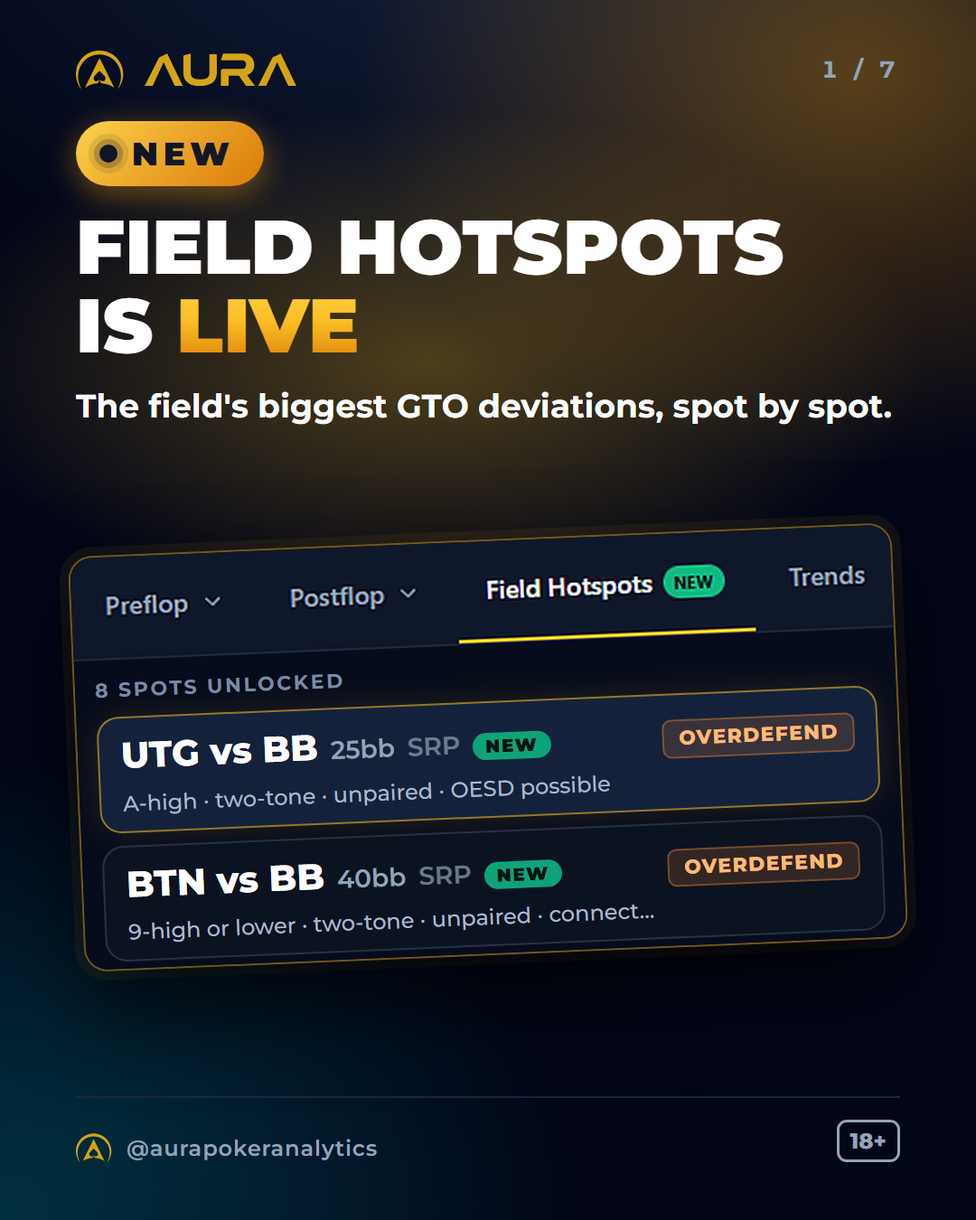
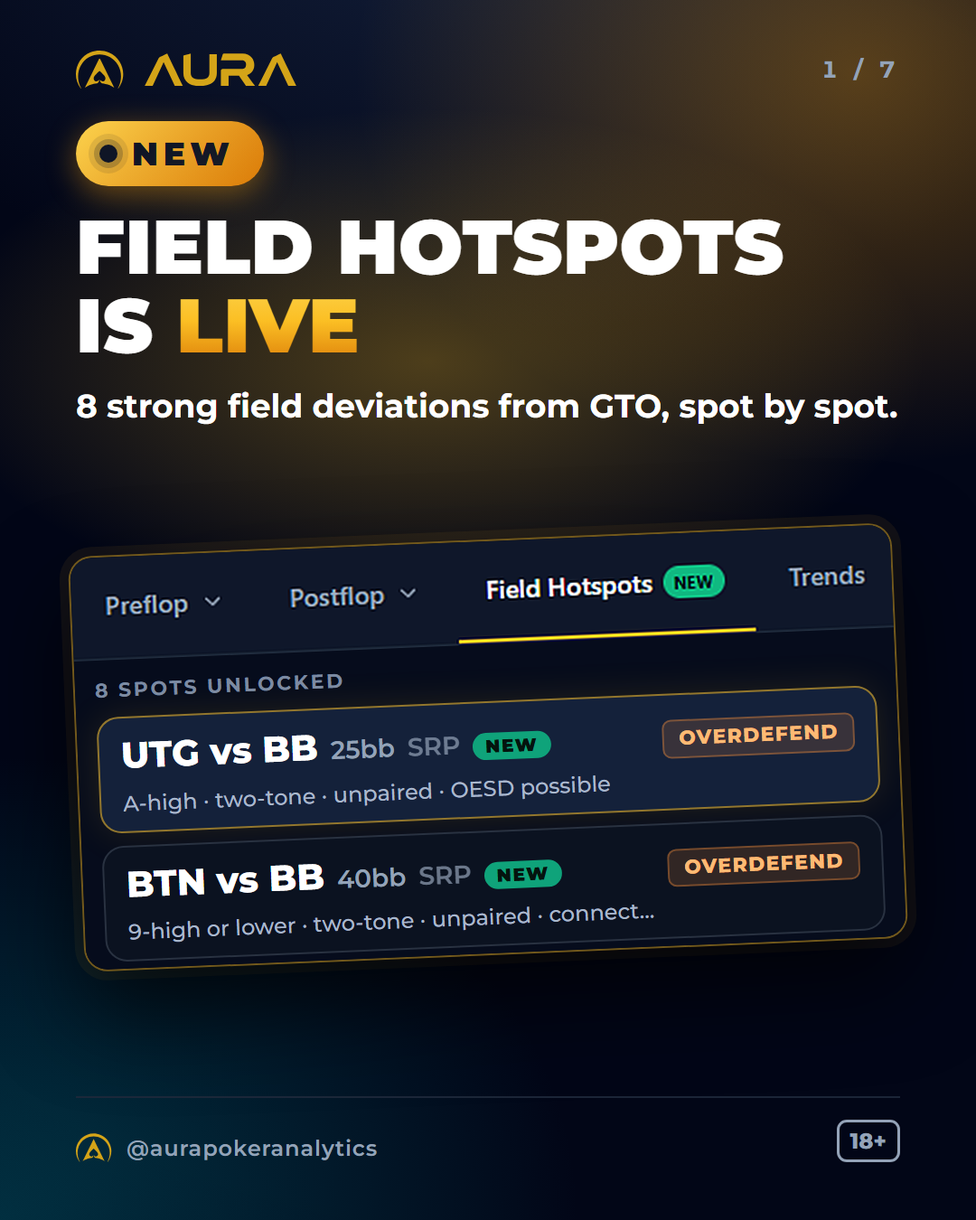
fix(field-hotspots): troca "os maiores hotspots" por "desvio forte" em todas as peças
Os 8 liberados ocupam as posições 4, 7, 9, 16, 18, 20, 24 e 49 de 1.049
(regra de liberação), não são os 8 maiores desvios. Discord, legendas,
e-mail, landing, story da capa e carrossel 1 regerados; qa OK.

Changed region(s): [[0.0611, 0.3111, 0.9167, 0.3733]]

diff --git a/content/posts/field-hotspots-launch/email-pt.html b/content/posts/field-hotspots-launch/email-pt.html
@@ -28,12 +28,12 @@
           <tr>
             <td style="padding-top:14px; padding-right:34px; padding-bottom:0; padding-left:34px; font-family:Arial,Helvetica,sans-serif;">
               <h1 style="margin:0; font-size:28px; line-height:1.25; color:#e6ebf2; font-weight:bold;">Field Hotspots no ar</h1>
-              <p style="margin:10px 0 0 0; font-size:17px; line-height:1.5; color:#D4A418; font-weight:bold;">Onde o field mais se afasta do GTO, spot a spot.</p>
+              <p style="margin:10px 0 0 0; font-size:17px; line-height:1.5; color:#D4A418; font-weight:bold;">8 spots de desvio forte do field, spot a spot.</p>
             </td>
           </tr>
           <tr>
             <td style="padding-top:16px; padding-right:34px; padding-bottom:4px; padding-left:34px; font-family:Arial,Helvetica,sans-serif; color:#c3ccd9; font-size:15px; line-height:1.65;">
-              <p style="margin:0 0 14px 0;">Os spots pós-flop de MTT em que o field mais erra, já discriminados: posições, stack, flop, size de c-bet e a ação para explorar.</p><p style="margin:0 0 14px 0;">UTG vs BB, 25bb, SRP, flop A♠ 3♠ 6♥ (A-high two-tone, OESD possível). Contra o c-bet de 50%, o field folda 53,8% e o GTO folda 73,5%: 19,7% abaixo. O BB defende demais contra c-bet. Blefe menos e aposte mais por value.</p><p style="margin:0 0 14px 0;">O Modo GTO libera 8 spots. O Grátis vê 1. Toda segunda, 2 saem e 2 entram, e o que sai não volta igual. O reg do lado pode estar vendo.</p>
+              <p style="margin:0 0 14px 0;">Os spots pós-flop de MTT em que o field tem desvio forte do GTO, já discriminados: posições, stack, flop, size de c-bet e a ação para explorar.</p><p style="margin:0 0 14px 0;">UTG vs BB, 25bb, SRP, flop A♠ 3♠ 6♥ (A-high two-tone, OESD possível). Contra o c-bet de 50%, o field folda 53,8% e o GTO folda 73,5%: 19,7% abaixo. O BB defende demais contra c-bet. Blefe menos e aposte mais por value.</p><p style="margin:0 0 14px 0;">O Modo GTO libera 8 spots. O Grátis vê 1. Toda segunda, 2 saem e 2 entram, e o que sai não volta igual. O reg do lado pode estar vendo.</p>
             </td>
           </tr>
           <tr>

diff --git a/content/posts/field-hotspots-launch/email-pt.preview.html b/content/posts/field-hotspots-launch/email-pt.preview.html
@@ -28,12 +28,12 @@
           <tr>
             <td style="padding-top:14px; padding-right:34px; padding-bottom:0; padding-left:34px; font-family:Arial,Helvetica,sans-serif;">
               <h1 style="margin:0; font-size:28px; line-height:1.25; color:#e6ebf2; font-weight:bold;">Field Hotspots no ar</h1>
-              <p style="margin:10px 0 0 0; font-size:17px; line-height:1.5; color:#D4A418; font-weight:bold;">Onde o field mais se afasta do GTO, spot a spot.</p>
+              <p style="margin:10px 0 0 0; font-size:17px; line-height:1.5; color:#D4A418; font-weight:bold;">8 spots de desvio forte do field, spot a spot.</p>
             </td>
           </tr>
           <tr>
             <td style="padding-top:16px; padding-right:34px; padding-bottom:4px; padding-left:34px; font-family:Arial,Helvetica,sans-serif; color:#c3ccd9; font-size:15px; line-height:1.65;">
-              <p style="margin:0 0 14px 0;">Os spots pós-flop de MTT em que o field mais erra, já discriminados: posições, stack, flop, size de c-bet e a ação para explorar.</p><p style="margin:0 0 14px 0;">UTG vs BB, 25bb, SRP, flop A♠ 3♠ 6♥ (A-high two-tone, OESD possível). Contra o c-bet de 50%, o field folda 53,8% e o GTO folda 73,5%: 19,7% abaixo. O BB defende demais contra c-bet. Blefe menos e aposte mais por value.</p><p style="margin:0 0 14px 0;">O Modo GTO libera 8 spots. O Grátis vê 1. Toda segunda, 2 saem e 2 entram, e o que sai não volta igual. O reg do lado pode estar vendo.</p>
+              <p style="margin:0 0 14px 0;">Os spots pós-flop de MTT em que o field tem desvio forte do GTO, já discriminados: posições, stack, flop, size de c-bet e a ação para explorar.</p><p style="margin:0 0 14px 0;">UTG vs BB, 25bb, SRP, flop A♠ 3♠ 6♥ (A-high two-tone, OESD possível). Contra o c-bet de 50%, o field folda 53,8% e o GTO folda 73,5%: 19,7% abaixo. O BB defende demais contra c-bet. Blefe menos e aposte mais por value.</p><p style="margin:0 0 14px 0;">O Modo GTO libera 8 spots. O Grátis vê 1. Toda segunda, 2 saem e 2 entram, e o que sai não volta igual. O reg do lado pode estar vendo.</p>
             </td>
           </tr>
           <tr>

diff --git a/content/posts/field-hotspots-launch/instagram/src/carrossel-en-01.html b/content/posts/field-hotspots-launch/instagram/src/carrossel-en-01.html
@@ -20,7 +20,7 @@
 <div class="vignette"></div>
 <header><div class="lockup"><span class="icon" data-icon></span><span class="wm" data-wordmark></span></div><span class="indicator">1 / 7</span></header>
 <div class="pillrow z"><span class="live"><i class="dot"></i>NEW</span></div>
-<div class="z titlewrap"><h1 class="title">Field Hotspots<br>is <em>live</em></h1><p class="sub fit">The field's biggest GTO deviations, spot by spot.</p></div>
+<div class="z titlewrap"><h1 class="title">Field Hotspots<br>is <em>live</em></h1><p class="sub fit">8 strong field deviations from GTO, spot by spot.</p></div>
 <div class="fc z"><div class="win"><div class="nv"><img src="assets/mk-nav-neutro-idioma-910.png"></div><div class="body"><div class="lab">8 SPOTS UNLOCKED</div><div class="sp sel"><div class="l1"><span class="pair" style="font-size:34px">UTG vs BB</span><span class="st">25bb</span><span class="st" style="opacity:.7">SRP</span><span class="new">NEW</span><span style="margin-left:auto"><span class="od">OVERDEFEND</span></span></div><div class="tx">A-high · two-tone · unpaired · OESD possible</div></div><div class="sp"><div class="l1"><span class="pair" style="font-size:34px">BTN vs BB</span><span class="st">40bb</span><span class="st" style="opacity:.7">SRP</span><span class="new">NEW</span><span style="margin-left:auto"><span class="od">OVERDEFEND</span></span></div><div class="tx">9-high or lower · two-tone · unpaired · connect…</div></div></div></div></div>
 <footer><div class="handle"><span class="icon" data-icon></span><span>@aurapokeranalytics</span></div><span class="age">18+</span></footer>
 </div><script src="common.js"></script></body></html>

diff --git a/content/posts/field-hotspots-launch/instagram/src/story-capa-pt.html b/content/posts/field-hotspots-launch/instagram/src/story-capa-pt.html
@@ -19,7 +19,7 @@
 <div class="vignette"></div>
 <div class="z"><header><div class="lockup"><span class="icon" data-icon></span><span class="wm" data-wordmark></span></div></header></div>
 <div class="pillrow z"><span class="live"><i class="dot"></i>NOVO</span></div>
-<div class="z titlewrap"><h1 class="title">Field Hotspots<br><em>no ar</em></h1><p class="sub ">Onde o field mais se afasta do GTO, spot a spot.</p></div>
+<div class="z titlewrap"><h1 class="title">Field Hotspots<br><em>no ar</em></h1><p class="sub ">8 spots de desvio forte do field.</p></div>
 <div class="stage z"><div class="nvglow"></div><div class="nvbar"><img src="assets/mk-nav-completo-914.png"></div><div class="lst"><img src="assets/mk-lista-paga-sem-numeros-917.png"></div></div>
 <div class="sticker z"></div>
 <footer><div class="handle"><span class="icon" data-icon></span><span>@aurapokeranalytics</span></div><span class="age">18+</span></footer>

diff --git a/content/posts/field-hotspots-launch/email-en.html b/content/posts/field-hotspots-launch/email-en.html
@@ -28,7 +28,7 @@
           <tr>
             <td style="padding-top:14px; padding-right:34px; padding-bottom:0; padding-left:34px; font-family:Arial,Helvetica,sans-serif;">
               <h1 style="margin:0; font-size:28px; line-height:1.25; color:#e6ebf2; font-weight:bold;">Field Hotspots is live</h1>
-              <p style="margin:10px 0 0 0; font-size:17px; line-height:1.5; color:#D4A418; font-weight:bold;">Where the field strays most from GTO, spot by spot.</p>
+              <p style="margin:10px 0 0 0; font-size:17px; line-height:1.5; color:#D4A418; font-weight:bold;">8 strong field deviations from GTO, spot by spot.</p>
             </td>
           </tr>
           <tr>

diff --git a/content/posts/field-hotspots-launch/email-en.preview.html b/content/posts/field-hotspots-launch/email-en.preview.html
@@ -28,7 +28,7 @@
           <tr>
             <td style="padding-top:14px; padding-right:34px; padding-bottom:0; padding-left:34px; font-family:Arial,Helvetica,sans-serif;">
               <h1 style="margin:0; font-size:28px; line-height:1.25; color:#e6ebf2; font-weight:bold;">Field Hotspots is live</h1>
-              <p style="margin:10px 0 0 0; font-size:17px; line-height:1.5; color:#D4A418; font-weight:bold;">Where the field strays most from GTO, spot by spot.</p>
+              <p style="margin:10px 0 0 0; font-size:17px; line-height:1.5; color:#D4A418; font-weight:bold;">8 strong field deviations from GTO, spot by spot.</p>
             </td>
           </tr>
           <tr>

diff --git a/content/posts/field-hotspots-launch/instagram/src/build_email.py b/content/posts/field-hotspots-launch/instagram/src/build_email.py
@@ -17,7 +17,7 @@ from lib import ASSETS, EMAIL, EMAIL_IMG_BASE, POST, SRC, is_num, pct, ph_email,
 CP = {
     "pt": dict(
         lang_attr="pt-BR", subject="UTG vs BB, 25bb: o field defende demais", h1="Field Hotspots no ar",
-        tagline="Onde o field mais se afasta do GTO, spot a spot.",
+        tagline="8 spots de desvio forte do field, spot a spot.",
         pre="Field Hotspots no ar. Dois spots novos toda segunda.", btn="Abrir o Field Hotspots",
         under="Primeira troca de spots: segunda, 02/11. Poker é jogo de habilidade e estudo. 18+.",
         f1="Você recebe este e-mail porque tem uma conta ou lista de espera da Aura.",
@@ -27,7 +27,7 @@ CP = {
     ),
     "en": dict(
         lang_attr="en", subject="UTG vs BB, 25bb: the field overdefends", h1="Field Hotspots is live",
-        tagline="Where the field strays most from GTO, spot by spot.",
+        tagline="8 strong field deviations from GTO, spot by spot.",
         pre="Field Hotspots is live. Two new spots every Monday.", btn="Open Field Hotspots",
         under="First spot swap: Monday, Nov 2. Poker is a game of skill and study. 18+.",
         f1="You are receiving this email because you have an Aura account or waitlist spot.",
@@ -43,7 +43,7 @@ def body_paras(lang, n):
     word = "abaixo" if lang == "pt" else "below"
     if lang == "pt":
         return [
-            "Os spots pós-flop de MTT em que o field mais erra, já discriminados: posições, stack, flop, size de c-bet e a ação para explorar.",
+            "Os spots pós-flop de MTT em que o field tem desvio forte do GTO, já discriminados: posições, stack, flop, size de c-bet e a ação para explorar.",
             f"UTG vs BB, 25bb, SRP, flop A♠ 3♠ 6♥ (A-high two-tone, OESD possível). Contra o c-bet de 50%, o field folda {f} e o GTO folda {g}: {d} {word}. O BB defende demais contra c-bet. Blefe menos e aposte mais por value.",
             "O Modo GTO libera 8 spots. O Grátis vê 1. Toda segunda, 2 saem e 2 entram, e o que sai não volta igual. O reg do lado pode estar vendo.",
         ]

diff --git a/content/posts/field-hotspots-launch/instagram/src/build.py b/content/posts/field-hotspots-launch/instagram/src/build.py
@@ -32,8 +32,8 @@ ART = {
     "feed-en": dict(lang="en", size=(1080, 1350), kind="feed", t="Know where<br>the field <em>leaks?</em>", s="Field Hotspots: new spots every Monday.", ts=80, num=("N1", "N2", "N3")),
     "story-pt": dict(lang="pt", size=(1080, 1920), kind="story", t="O BB defende<br><em>demais aqui</em>", s="Field Hotspots: o que sai na segunda não volta igual.", ts=104, num=("N1", "N2", "N3")),
     "story-en": dict(lang="en", size=(1080, 1920), kind="story", t="The BB<br><em>overdefends</em><br>here", s="Field Hotspots: what leaves on Monday doesn't come back the same.", ts=104, num=("N1", "N2", "N3")),
-    "story-capa-pt": dict(lang="pt", size=(1080, 1920), kind="storycapa", t="Field Hotspots<br><em>no ar</em>", s="Onde o field mais se afasta do GTO, spot a spot.", ts=84, num=()),
-    "carrossel-en-01": dict(lang="en", size=(1080, 1350), kind="c1", idx=1, t="Field Hotspots<br>is <em>live</em>", s="The field's biggest GTO deviations, spot by spot.", ts=84, num=()),
+    "story-capa-pt": dict(lang="pt", size=(1080, 1920), kind="storycapa", t="Field Hotspots<br><em>no ar</em>", s="8 spots de desvio forte do field.", ts=84, num=()),
+    "carrossel-en-01": dict(lang="en", size=(1080, 1350), kind="c1", idx=1, t="Field Hotspots<br>is <em>live</em>", s="8 strong field deviations from GTO, spot by spot.", ts=84, num=()),
     "carrossel-en-02": dict(lang="en", size=(1080, 1350), kind="c2", idx=2, t="Postflop spots.<br><em>Field vs GTO.</em>", s="Position pair, stack, pot type, flop texture.", ts=80, num=()),
     "carrossel-en-03": dict(lang="en", size=(1080, 1350), kind="c3", idx=3, t="One spot,<br><em>fully broken down</em>", s="UTG vs BB · 25bb · SRP · A-high two-tone flop", ts=70, num=("N1", "N2", "N3", "N4", "N5")),
     "carrossel-en-04": dict(lang="en", size=(1080, 1350), kind="c4", idx=4, t="How to<br><em>exploit it</em>", s=None, ts=104, num=()),

diff --git a/content/posts/field-hotspots-launch/copy.md b/content/posts/field-hotspots-launch/copy.md
@@ -8,8 +8,8 @@ Telas de referência: `aura-novofront/_ops/validacao-prints/169/paid-1280-3-fiel
 **Números:** todos vêm de `content/posts/field-hotspots-launch/numeros-verificados.md` (22/10/2026). Nenhum marcador `[NUM]` resta no pacote; cada número está mapeado à linha da fonte em "Números usados", no fim. PT com vírgula, EN com ponto; desvio em %, nunca "pp".
 
 ## Mensagem central
-- PT: Os maiores hotspots do field, discriminados e a um clique: onde ele mais se afasta do GTO, em qual size de c-bet, e o que fazer com isso.
-- EN: The field's biggest hotspots, itemized and one click away: where it strays most from GTO, at which c-bet size, and what to do about it.
+- PT: Os hotspots de desvio forte do field, discriminados e a um clique: onde ele se afasta do GTO, em qual size de c-bet, e o que fazer com isso.
+- EN: The field's strong-deviation hotspots, itemized and one click away: where it strays from GTO, at which c-bet size, and what to do about it.
 
 Estrutura de toda peça: **um spot concreto** (UTG vs BB, 25bb, SRP, flop A-high two-tone com OESD possível, Overdefend), **a ação** ("O BB defende demais contra c-bet. Blefe menos e aposte mais por value.", texto da própria caixa "Como explorar") e **um CTA**.
 
@@ -31,7 +31,7 @@ Direção dele: "Tem que ter um apelo que damos os maiores hotspots do field dis
 8. **Capturas de tela nas artes:** as telas de 22/10 mostram números (fold, GTO, diferença, mil mãos, faixa). Só entram na arte se o `numeros-verificados.md` os cobrir; senão usar o mockup renderizado com os valores confirmados, ou borrar.
 9. **Preço e plano:** nenhuma peça cita preço. O trancado da tela diz "+7 spots liberados no Modo GTO", e as peças usam "Modo GTO" assim. Conferir se há texto do plano a acrescentar ("incluso no Individual") ou se isso fica fora.
 10. **"Deixando fichas na mesa": decisão do Rafael.** A frase "Quem não sabe onde o field erra pode estar deixando fichas na mesa" (legendas do feed, PT e EN) é a direção de fearmongering que ele pediu. O brand-kit veta promessa de lucro; a frase não promete ganho (diz "pode estar deixando"), mas o revisor de marca deve saber que ela fica por decisão dele.
-11. **Confirmar que os 8 do lançamento são os de maior desvio.** A ordem de liberação põe os fortes primeiro (regra `pvg-release-v1`: "Desvio forte" = 5% ou mais fora da faixa do GTO, depois "Desvio claro" = 2% a 5%). As peças dizem "os maiores hotspots do field" e "onde o field mais se afasta do GTO"; antes de publicar, a sessão dona do módulo confirma que os 8 spots da janela de lançamento são, de fato, os de maior desvio do catálogo.
+11. **Fechada (22/10, HUB): os 8 liberados não são os 8 maiores desvios** (posições 4, 7, 9, 16, 18, 20, 24 e 49 de 1.049, pela regra de liberação). Todas as peças trocaram "os maiores" / "mais se afasta" por "desvio forte" (5% ou mais fora da faixa do GTO).
 
 ## Regras de texto das artes (padrão Rafael, 08/10)
 Cada arte tem **um título curto (até ~6 palavras) e no máximo uma linha de apoio (até ~10 palavras)**. A imagem fala. Em toda arte, só ficam o logo, `@aurapokeranalytics · 18+` pequeno e, nos slides, o indicador "n / 7". Título em caixa alta bold, apoio em sentence case. O link é o sticker ou o link na bio, não texto de arte. Cores semânticas: fold `#015A6B`, call `#348A5D`, raise `#AD2C34`; a diferença field × GTO em âmbar. Nenhuma arte mostra contagem de mãos nem preço.
@@ -68,12 +68,12 @@ Observação: feed e story têm uma URL por idioma (no Modo GTO era uma só), pa
 - EN: New · Field Hotspots
 
 ## Título
-- PT: Os maiores hotspots do field, spot a spot.
-- EN: The field's biggest hotspots, spot by spot.
+- PT: 8 spots de desvio forte do field, spot a spot.
+- EN: 8 strong field deviations from GTO, spot by spot.
 
 ## Subtítulo
-- PT: O Field Hotspots lista os spots pós-flop em que o field real de MTT mais se afasta do GTO, já discriminados: posições, stack, flop, size de c-bet e a ação para explorar. Item próprio no menu do topo.
-- EN: Field Hotspots lists the postflop spots where the real MTT field strays most from GTO, already itemized: positions, stack, flop, c-bet size and the action to exploit it. Its own item in the top menu.
+- PT: O Field Hotspots lista os spots pós-flop em que o field real de MTT tem desvio forte do GTO, já discriminados: posições, stack, flop, size de c-bet e a ação para explorar. Item próprio no menu do topo.
+- EN: Field Hotspots lists the postflop spots where the real MTT field deviates strongly from GTO, already itemized: positions, stack, flop, c-bet size and the action to exploit it. Its own item in the top menu.
 
 ## 3 bullets
 PT:
@@ -115,8 +115,8 @@ Cada arte: **um título (até ~6 palavras) e uma linha de apoio (até ~10 palavr
 | Feed | 1080x1350 | EN | Know where the field leaks? | Field Hotspots: new spots every Monday. | Mesmas barras (Field 53.8%, GTO 73.5%, 50% c-bet), gap em âmbar, rótulo OVERDEFEND; rótulo "UTG vs BB · 25bb · A-high two-tone" |
 | Story | 1080x1920 | PT | O BB defende demais aqui | Field Hotspots: o que sai na segunda não volta igual. | As mesmas barras com a diferença 19,7% abaixo em âmbar (EN 19.7% below); o flop A♠ 3♠ 6♥; sticker de link "Abrir o Field Hotspots" |
 | Story | 1080x1920 | EN | The BB overdefends here | Field Hotspots: what leaves on Monday doesn't come back the same. | Mesma imagem do story PT; sticker de link "Open Field Hotspots" |
-| Story da capa | 1080x1920 | PT | Field Hotspots no ar | Onde o field mais se afasta do GTO, spot a spot. | Pílula NOVO; a barra do menu do topo com o item Field Hotspots e o selo NEW em destaque, e a lista de spots com os rótulos Overfold e Overdefend (sem números, ou só os confirmados); sticker de link "Abrir o Field Hotspots" |
-| Carrossel 1 (capa) | 1080x1350 | EN | Field Hotspots is live | The field's biggest GTO deviations, spot by spot. | Pílula NEW; janela do produto com a lista de spots e o item Field Hotspots NEW no menu do topo |
+| Story da capa | 1080x1920 | PT | Field Hotspots no ar | 8 spots de desvio forte do field. | Pílula NOVO; a barra do menu do topo com o item Field Hotspots e o selo NEW em destaque, e a lista de spots com os rótulos Overfold e Overdefend (sem números, ou só os confirmados); sticker de link "Abrir o Field Hotspots" |
+| Carrossel 1 (capa) | 1080x1350 | EN | Field Hotspots is live | 8 strong field deviations from GTO, spot by spot. | Pílula NEW; janela do produto com a lista de spots e o item Field Hotspots NEW no menu do topo |
 | Carrossel 2 (o que é) | 1080x1350 | EN | Postflop spots. Field vs GTO. | Position pair, stack, pot type, flop texture. | Lista de 3 a 4 cards de spot (par de posições, stack, SRP, textura, rótulo Overfold/Overdefend), sem números |
 | Carrossel 3 (um spot) | 1080x1350 | EN | One spot, fully broken down | UTG vs BB · 25bb · SRP · A-high two-tone flop | O spot da semana: os 3 boards de exemplo (A♠ 3♠ 6♥, 6♠ A♣ 7♣, 7♣ A♥ 5♥), o rótulo OVERDEFEND, no c-bet de 50%, field 53,8% contra GTO 73,5%, a diferença 19,7% abaixo, e as abas Fold, Call, Raise com os 3 sizes (barras de fold, field × GTO: 33% 45,1% × 52,5%; 50% 53,8% × 73,5%; 65% 59,4% × 76,3%; EN com ponto) |
 | Carrossel 4 (como explorar) | 1080x1350 | EN | How to exploit it | BB overdefends. Bluff less, bet more for value. | A caixa "Como explorar" em âmbar, com o texto da tela (EN exato: "The BB defends too much against the c-bet. Bluff less and bet more for value."; PT: "O BB defende demais contra c-bet. Blefe menos e aposte mais por value."), sobre o flop A♠ 3♠ 6♥ e o rótulo OVERDEFEND. Sem mãos exemplificadas |
@@ -173,5 +173,5 @@ Não usados de propósito: faixas do GTO (50,9–54,2; 67,5–79,5; 70,3–82,3)
 
 ## Condições do revisor de marca (parecer final OK COM RESSALVAS, 22/10)
 - **D: outros spots nas artes.** O carrossel 1 e 2 e o story da capa mostram, sem números, os rótulos de outros spots da janela de 22/10 (BTN vs BB 40bb, BTN vs SB 40bb, UTG vs BB 40bb), lidos da tela. Eles não estão no `numeros-verificados.md` e saem a partir de 02/11 (o lote de abertura sai 2 por semana). Publicar antes de 02/11; depois disso, trocar esses cards.
-- Decisões do Rafael: "fichas na mesa" (Pendência 10), "os maiores" (Pendência 11), rodapé de amostra do brand-kit × regra sem bastidor.
+- Decisões do Rafael: "fichas na mesa" (Pendência 10), rodapé de amostra do brand-kit × regra sem bastidor.
 - Discord recontado com `len()`: PT 902, EN 897 caracteres (teto 1.200).

diff --git a/content/posts/field-hotspots-launch/instagram.md b/content/posts/field-hotspots-launch/instagram.md
@@ -15,7 +15,7 @@ Arte EN: título "Know where the field leaks?" / apoio "Field Hotspots: new spot
 ```
 Você sabe onde o field erra? O reg do lado pode saber.
 
-O Field Hotspots está no ar: os spots pós-flop em que o field de MTT mais se afasta do GTO, cada um discriminado, no menu do topo.
+O Field Hotspots está no ar: os spots pós-flop em que o field de MTT tem desvio forte do GTO, cada um discriminado, no menu do topo.
 
 Exemplo desta semana: UTG vs BB, 25bb, SRP, flop A♠ 3♠ 6♥ (A-high two-tone, OESD possível). Contra o c-bet de 50%, o BB folda 53,8% e o GTO folda 73,5%: 19,7% abaixo. Overdefend. O BB defende demais contra c-bet. Blefe menos e aposte mais por value.
 
@@ -32,7 +32,7 @@ Abrir o Field Hotspots, link na bio. Ferramenta de estudo. 18+.
 ```
 Do you know where the field leaks? The reg next to you might.
 
-Field Hotspots is live: the postflop spots where the MTT field strays most from GTO, each one itemized, in the top menu.
+Field Hotspots is live: the postflop spots where the MTT field deviates strongly from GTO, each one itemized, in the top menu.
 
 This week's example: UTG vs BB, 25bb, SRP, A♠ 3♠ 6♥ flop (A-high two-tone, possible OESD). Facing a 50% c-bet, the BB folds 53.8% and GTO folds 73.5%: 19.7% below. Overdefend. The BB defends too much against the c-bet. Bluff less and bet more for value.
 
@@ -53,9 +53,9 @@ Slides (arte, `copy.md`): 1 "Field Hotspots is live" · 2 "Postflop spots. Field
 
 ```
 🇧🇷
-Os maiores hotspots do field, discriminados. Você sabe onde ele erra?
+Hotspots de desvio forte do field, discriminados. Você sabe onde ele erra?
 
-O Field Hotspots está no ar: os spots pós-flop em que o field de MTT mais se afasta do GTO, com posições, stack, tipo de pote, textura do flop, Overfold ou Overdefend, field × GTO por size de c-bet (33%, 50%, 65%) e a caixa Como explorar.
+O Field Hotspots está no ar: os spots pós-flop em que o field de MTT tem desvio forte do GTO, com posições, stack, tipo de pote, textura do flop, Overfold ou Overdefend, field × GTO por size de c-bet (33%, 50%, 65%) e a caixa Como explorar.
 
 Exemplo desta semana: UTG vs BB, 25bb, SRP, flop A♠ 3♠ 6♥. Contra o c-bet de 50%, o BB folda 53,8% contra 73,5% do GTO, 19,7% abaixo: overdefend. Blefe menos e aposte mais por value.
 
@@ -64,9 +64,9 @@ O Modo GTO libera 8 spots; o Grátis vê 1. Toda segunda, 2 saem e 2 entram (pri
 Link na bio. Ferramenta de estudo. 18+.
 
 🇺🇸
-The field's biggest hotspots, itemized. Do you know where it leaks?
+The field's strong deviations from GTO, itemized. Do you know where it leaks?
 
-Field Hotspots is live: the postflop spots where the MTT field strays most from GTO, with positions, stack, pot type, flop texture, Overfold or Overdefend, field vs GTO by c-bet size (33%, 50%, 65%) and the How to exploit box.
+Field Hotspots is live: the postflop spots where the MTT field deviates strongly from GTO, with positions, stack, pot type, flop texture, Overfold or Overdefend, field vs GTO by c-bet size (33%, 50%, 65%) and the How to exploit box.
 
 This week's example: UTG vs BB, 25bb, SRP, A♠ 3♠ 6♥ flop. Facing a 50% c-bet, the BB folds 53.8% vs 73.5% for GTO, 19.7% below: overdefend. Bluff less and bet more for value.
 
@@ -96,7 +96,7 @@ Os stories não levam legenda; o texto é o da arte (título e apoio, em `copy.m
 - Enquete opcional: "Does your BB overdefend against c-bets?" Opções: **Yes** / **Depends**.
 
 ### Story da capa do carrossel (PT)
-- Arte: título "Field Hotspots no ar" / apoio "Onde o field mais se afasta do GTO, spot a spot."
+- Arte: título "Field Hotspots no ar" / apoio "8 spots de desvio forte do field."
 - Sticker de link (texto): **Abrir o Field Hotspots**
 - URL: https://www.aurapoker.com/?utm_source=instagram&utm_medium=social&utm_campaign=field-hotspots-launch&utm_content=story-capa-pt
 - Sticker de contagem regressiva: **não usar** (a regra é não inventar escassez; a rotação é toda segunda, mas não há "prazo" a contar).

diff --git a/content/posts/field-hotspots-launch/discord.md b/content/posts/field-hotspots-launch/discord.md
@@ -12,7 +12,7 @@ Tom: diagnóstico + ação; FOMO só com fato (rotação, 1 de 8) e "pode". Sem 
 ```
 📊 **Field Hotspots no ar**
 
-Os spots pós-flop em que o field de MTT mais se afasta do GTO, já discriminados: posições, stack, tipo de pote, textura do flop, Overfold ou Overdefend, e o detalhe por size de c-bet (33%, 50%, 65%) em Fold, Call e Raise. Item próprio no menu do topo.
+Os spots pós-flop em que o field de MTT tem desvio forte do GTO, já discriminados: posições, stack, tipo de pote, textura do flop, Overfold ou Overdefend, e o detalhe por size de c-bet (33%, 50%, 65%) em Fold, Call e Raise. Item próprio no menu do topo.
 
 **Exemplo desta semana**
 UTG vs BB, 25bb, SRP, flop A-high two-tone com OESD possível. Contra o c-bet de 50%, o BB folda 53,8% contra 73,5% do GTO: overdefend. **Blefe menos e aposte mais por value.**
@@ -30,7 +30,7 @@ Ferramenta de estudo. 18+.
 ```
 📊 **Field Hotspots is live**
 
-The postflop spots where the MTT field strays most from GTO, already itemized: positions, stack, pot type, flop texture, Overfold or Overdefend, and the detail by c-bet size (33%, 50%, 65%) on Fold, Call and Raise. Its own item in the top menu.
+The postflop spots where the MTT field deviates strongly from GTO, already itemized: positions, stack, pot type, flop texture, Overfold or Overdefend, and the detail by c-bet size (33%, 50%, 65%) on Fold, Call and Raise. Its own item in the top menu.
 
 **This week's example**
 UTG vs BB, 25bb, SRP, A-high two-tone flop with a possible OESD. Facing a 50% c-bet, the BB folds 53.8% vs 73.5% for GTO: overdefend. **Bluff less and bet more for value.**

diff --git a/content/posts/field-hotspots-launch/email.md b/content/posts/field-hotspots-launch/email.md
@@ -7,7 +7,7 @@ Números de `numeros-verificados.md` (mapa em `copy.md`); nenhum `[NUM]` resta. 
 
 ## PT
 
-**Assunto, opção 1:** Field Hotspots: onde o field mais erra
+**Assunto, opção 1:** Field Hotspots: onde o field erra
 **Assunto, opção 2:** UTG vs BB, 25bb: o field defende demais
 **Recomendado: opção 2.** Tem spot e diagnóstico no assunto (tom de reg), e a opção 1 fica para a linha de abertura.
 **Preheader:** Field Hotspots no ar. Dois spots novos toda segunda.
@@ -15,9 +15,9 @@ Números de `numeros-verificados.md` (mapa em `copy.md`); nenhum `[NUM]` resta. 
 **Corpo (texto)**
 
 Field Hotspots no ar
-Onde o field mais se afasta do GTO, spot a spot.
+8 spots de desvio forte do field, spot a spot.
 
-Os spots pós-flop de MTT em que o field mais erra, já discriminados: posições, stack, flop, size de c-bet e a ação para explorar.
+Os spots pós-flop de MTT em que o field tem desvio forte do GTO, já discriminados: posições, stack, flop, size de c-bet e a ação para explorar.
 
 UTG vs BB, 25bb, SRP, flop A♠ 3♠ 6♥ (A-high two-tone, OESD possível). Contra o c-bet de 50%, o field folda 53,8% e o GTO folda 73,5%: 19,7% abaixo. O BB defende demais contra c-bet. Blefe menos e aposte mais por value.
 
@@ -39,7 +39,7 @@ Sob o botão: Primeira troca de spots: segunda, 02/11. Poker é jogo de habilida
 **Body (text)**
 
 Field Hotspots is live
-Where the field strays most from GTO, spot by spot.
+8 strong field deviations from GTO, spot by spot.
 
 The postflop MTT spots where the field leaks most, already itemized: positions, stack, flop, c-bet size and the action to exploit it.
 
